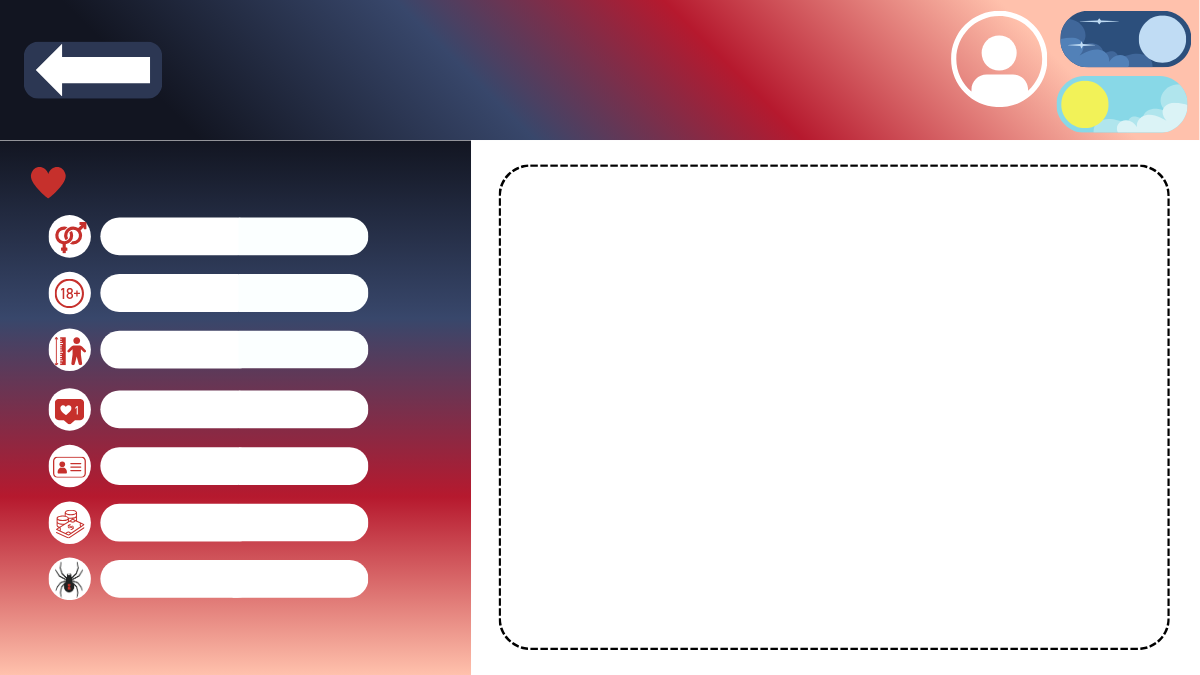
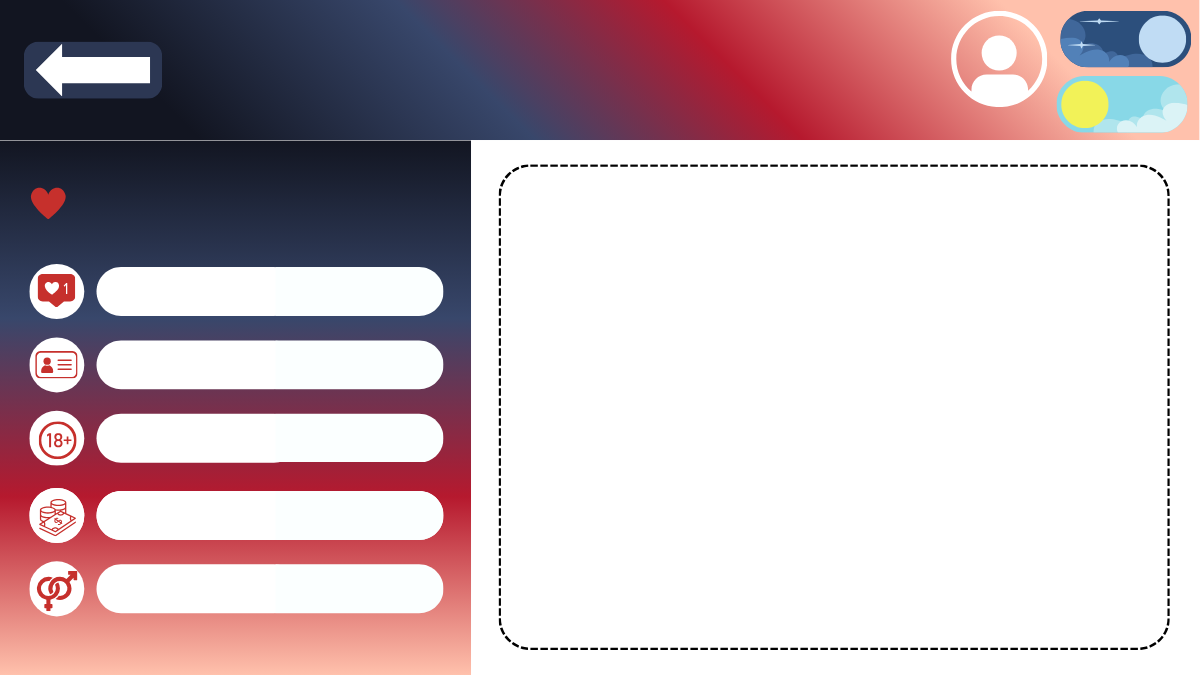
Ventana Principal corregida

Changed region(s): [[0.0, 0.2489, 0.37, 0.9333]]

diff --git a/ProyectoFinal/src/co/edu/unbosque/view/VentanaPrincipal.java b/ProyectoFinal/src/co/edu/unbosque/view/VentanaPrincipal.java
@@ -31,11 +31,9 @@ public class VentanaPrincipal extends JFrame {
 
 	private JLabel lblGenero;
 	private JLabel lblEdad;
-	private JLabel lblEstatura;
 	private JLabel lblLike;
 	private JLabel lblNombre;
 	private JLabel lblIngreso;
-	private JLabel lblDivorcio;
 
 	// Botones y cb
 	private JButton btnVolver;
@@ -48,11 +46,9 @@ public class VentanaPrincipal extends JFrame {
 
 	private JComboBox<String> cbGenero;
 	private JComboBox<String> cbEdad;
-	private JComboBox<String> cbEstatura;
 	private JComboBox<String> cbLike;
 	private JComboBox<String> cbNombre;
 	private JComboBox<String> cbIngreso;
-	private JComboBox<String> cbDivorcio;
 	
 	//tabla
 	private JTable tablaUsuarios;
@@ -117,14 +113,14 @@ public class VentanaPrincipal extends JFrame {
 		this.add(lblFiltro);
 
 		lblGenero = new JLabel(prop.getProperty("bostinder.ventanaprinicipal.lblGenero"));
-		lblGenero.setFont(new Font("Arial Rounded MT Bold", Font.BOLD, 15));
-		lblGenero.setBounds(110, 200, 1200, 70);
+		lblGenero.setFont(new Font("Arial Rounded MT Bold", Font.BOLD, 20));
+		lblGenero.setBounds(110, 555, 1200, 70);
 		lblGenero.setForeground(Color.BLACK);
 		this.add(lblGenero);
 
 		cbGenero = new JComboBox<>(prop.getProperty("bostinder.ventanaprinicipal.cbGenero").split(","));
-		cbGenero.setFont(new Font("Arial Rounded MT Bold", Font.BOLD, 15));
-		cbGenero.setBounds(181, 221, 177, 30);
+		cbGenero.setFont(new Font("Arial Rounded MT Bold", Font.BOLD, 20));
+		cbGenero.setBounds(230, 575, 177, 30);
 		cbGenero.setBackground(new Color(251, 255, 255));
 		cbGenero.setForeground(Color.BLACK);
 		cbGenero.setBorder(BorderFactory.createEmptyBorder());
@@ -132,45 +128,29 @@ public class VentanaPrincipal extends JFrame {
 		this.add(cbGenero);
 
 		lblEdad = new JLabel(prop.getProperty("bostinder.ventanaprinicipal.lblEdad"));
-		lblEdad.setFont(new Font("Arial Rounded MT Bold", Font.BOLD, 15));
-		lblEdad.setBounds(110, 257, 1200, 70);
+		lblEdad.setFont(new Font("Arial Rounded MT Bold", Font.BOLD, 20));
+		lblEdad.setBounds(110, 405, 1200, 70);
 		lblEdad.setForeground(Color.BLACK);
 		this.add(lblEdad);
 
-		cbEdad = new JComboBox<>(new String[] { "...", "18 - 25", "26 - 35", "36 - 45", "46 - 55", "56 - 65", "66+" });
-		cbEdad.setFont(new Font("Arial Rounded MT Bold", Font.BOLD, 15));
-		cbEdad.setBounds(225, 278, 133, 30);
+		cbEdad = new JComboBox<>(prop.getProperty("bostinder.ventanaprinicipal.cbEdad").split(","));
+		cbEdad.setFont(new Font("Arial Rounded MT Bold", Font.BOLD, 20));
+		cbEdad.setBounds(230, 425, 177, 30);
 		cbEdad.setBackground(new Color(251, 255, 255));
 		cbEdad.setForeground(Color.BLACK);
 		cbEdad.setBorder(BorderFactory.createEmptyBorder());
 		cbEdad.setUI(new javax.swing.plaf.basic.BasicComboBoxUI());
 		this.add(cbEdad);
 
-		lblEstatura = new JLabel(prop.getProperty("bostinder.ventanaprinicipal.lblEstatura"));
-		lblEstatura.setFont(new Font("Arial Rounded MT Bold", Font.BOLD, 15));
-		lblEstatura.setBounds(110, 314, 1200, 70);
-		lblEstatura.setForeground(Color.BLACK);
-		this.add(lblEstatura);
-
-		cbEstatura = new JComboBox<>(new String[] { "...", "- 150cm", "150cm - 159cm", "160cm - 169cm", "170cm - 179cm",
-				"180cm - 189cm", "190cm - 199cm", "+ 200cm" });
-		cbEstatura.setFont(new Font("Arial Rounded MT Bold", Font.BOLD, 15));
-		cbEstatura.setBounds(247, 335, 111, 30);
-		cbEstatura.setBackground(new Color(251, 255, 255));
-		cbEstatura.setForeground(Color.BLACK);
-		cbEstatura.setBorder(BorderFactory.createEmptyBorder());
-		cbEstatura.setUI(new javax.swing.plaf.basic.BasicComboBoxUI());
-		this.add(cbEstatura);
-
 		lblLike = new JLabel(prop.getProperty("bostinder.ventanaprinicipal.lblLikes"));
-		lblLike.setFont(new Font("Arial Rounded MT Bold", Font.BOLD, 15));
-		lblLike.setBounds(110, 374, 1200, 70);
+		lblLike.setFont(new Font("Arial Rounded MT Bold", Font.BOLD, 20));
+		lblLike.setBounds(110, 257, 1200, 70);
 		lblLike.setForeground(Color.BLACK);
 		this.add(lblLike);
 
-		cbLike = new JComboBox<>(new String[] { "...", "0 - 10", "11 - 50", "51 - 100", "+ 100" });
-		cbLike.setFont(new Font("Arial Rounded MT Bold", Font.BOLD, 15));
-		cbLike.setBounds(180, 394, 178, 30);
+		cbLike = new JComboBox<>(prop.getProperty("bostinder.ventanaprinicipal.cbLikes").split(","));
+		cbLike.setFont(new Font("Arial Rounded MT Bold", Font.BOLD, 20));
+		cbLike.setBounds(230, 278, 178, 30);
 		cbLike.setBackground(new Color(251, 255, 255));
 		cbLike.setForeground(Color.BLACK);
 		cbLike.setBorder(BorderFactory.createEmptyBorder());
@@ -178,14 +158,14 @@ public class VentanaPrincipal extends JFrame {
 		this.add(cbLike);
 
 		lblNombre = new JLabel(prop.getProperty("bostinder.ventanaprinicipal.lblNombre"));
-		lblNombre.setFont(new Font("Arial Rounded MT Bold", Font.BOLD, 15));
-		lblNombre.setBounds(110, 432, 1200, 70);
+		lblNombre.setFont(new Font("Arial Rounded MT Bold", Font.BOLD, 20));
+		lblNombre.setBounds(110, 330, 1200, 70);
 		lblNombre.setForeground(Color.BLACK);
 		this.add(lblNombre);
 
-		cbNombre = new JComboBox<>(new String[] { "...", "A-Z", "Z-A" });
-		cbNombre.setFont(new Font("Arial Rounded MT Bold", Font.BOLD, 15));
-		cbNombre.setBounds(181, 451, 178, 30);
+		cbNombre = new JComboBox<>(prop.getProperty("bostinder.ventanaprinicipal.cbNombre").split(","));
+		cbNombre.setFont(new Font("Arial Rounded MT Bold", Font.BOLD, 20));
+		cbNombre.setBounds(230, 350, 178, 30);
 		cbNombre.setBackground(new Color(251, 255, 255));
 		cbNombre.setForeground(Color.BLACK);
 		cbNombre.setBorder(BorderFactory.createEmptyBorder());
@@ -193,34 +173,20 @@ public class VentanaPrincipal extends JFrame {
 		this.add(cbNombre);
 
 		lblIngreso = new JLabel(prop.getProperty("bostinder.ventanaprinicipal.lblIngresos"));
-		lblIngreso.setFont(new Font("Arial Rounded MT Bold", Font.BOLD, 15));
-		lblIngreso.setBounds(110, 491, 1200, 70);
+		lblIngreso.setFont(new Font("Arial Rounded MT Bold", Font.BOLD, 20));
+		lblIngreso.setBounds(110, 480, 1200, 70);
 		lblIngreso.setForeground(Color.BLACK);
 		this.add(lblIngreso);
 
 		cbIngreso = new JComboBox<>(prop.getProperty("bostinder.ventanaprinicipal.cbIngresos").split(","));
-		cbIngreso.setFont(new Font("Arial Rounded MT Bold", Font.BOLD, 15));
-		cbIngreso.setBounds(181, 508, 177, 30);
+		cbIngreso.setFont(new Font("Arial Rounded MT Bold", Font.BOLD, 20));
+		cbIngreso.setBounds(230, 500, 177, 30);
 		cbIngreso.setBackground(new Color(251, 255, 255));
 		cbIngreso.setForeground(Color.BLACK);
 		cbIngreso.setBorder(BorderFactory.createEmptyBorder());
 		cbIngreso.setUI(new javax.swing.plaf.basic.BasicComboBoxUI());
 		this.add(cbIngreso);
 
-		lblDivorcio = new JLabel(prop.getProperty("bostinder.ventanaprinicipal.lblDivorcio"));
-		lblDivorcio.setFont(new Font("Arial Rounded MT Bold", Font.BOLD, 15));
-		lblDivorcio.setBounds(110, 547, 1200, 70);
-		lblDivorcio.setForeground(Color.BLACK);
-		this.add(lblDivorcio);
-
-		cbDivorcio = new JComboBox<>(prop.getProperty("bostinder.ventanaprinicipal.cbDivorcio").split(","));
-		cbDivorcio.setFont(new Font("Arial Rounded MT Bold", Font.BOLD, 15));
-		cbDivorcio.setBounds(208, 566, 150, 30);
-		cbDivorcio.setBackground(new Color(251, 255, 255));
-		cbDivorcio.setForeground(Color.BLACK);
-		cbDivorcio.setBorder(BorderFactory.createEmptyBorder());
-		cbDivorcio.setUI(new javax.swing.plaf.basic.BasicComboBoxUI());
-		this.add(cbDivorcio);
 		
 		btnVolver = new JButton("");
 		btnVolver.setFont(new Font("Arial Rounded MT Bold", Font.BOLD, 20));
@@ -234,7 +200,7 @@ public class VentanaPrincipal extends JFrame {
 		
 		//Boton Like
 		btnLike = new JButton(prop.getProperty("bostinder.ventanaprinicipal.btnLike"));
-		btnLike.setFont(new Font("Arial Rounded MT Bold", Font.BOLD, 18));
+		btnLike.setFont(new Font("Arial Rounded MT Bold", Font.BOLD, 20));
 		btnLike.setBounds(640, 640, 150, 25); 
 		btnLike.setBackground(new Color(0, 153, 51));
 		btnLike.setForeground(Color.WHITE);
@@ -380,13 +346,6 @@ public class VentanaPrincipal extends JFrame {
 		this.lblEdad = lblEdad;
 	}
 
-	public JLabel getLblEstatura() {
-		return lblEstatura;
-	}
-
-	public void setLblEstatura(JLabel lblEstatura) {
-		this.lblEstatura = lblEstatura;
-	}
 
 	public JLabel getLblLikes() {
 		return lblLike;
@@ -410,14 +369,6 @@ public class VentanaPrincipal extends JFrame {
 
 	public void setLblIngresos(JLabel lblIngresos) {
 		this.lblIngreso = lblIngresos;
-	}
-
-	public JLabel getLblDivorcio() {
-		return lblDivorcio;
-	}
-
-	public void setLblDivorcio(JLabel lblDivorcio) {
-		this.lblDivorcio = lblDivorcio;
 	}
 
 	public JButton getBtnVolver() {
@@ -444,14 +395,6 @@ public class VentanaPrincipal extends JFrame {
 		this.cbEdad = cbEdad;
 	}
 
-	public JComboBox<String> getCbEstatura() {
-		return cbEstatura;
-	}
-
-	public void setCbEstatura(JComboBox<String> cbEstatura) {
-		this.cbEstatura = cbEstatura;
-	}
-
 	public JComboBox<String> getCbLikes() {
 		return cbLike;
 	}
@@ -474,14 +417,6 @@ public class VentanaPrincipal extends JFrame {
 
 	public void setCbIngresos(JComboBox<String> cbIngresos) {
 		this.cbIngreso = cbIngresos;
-	}
-
-	public JComboBox<String> getCbDivorcio() {
-		return cbDivorcio;
-	}
-
-	public void setCbDivorcio(JComboBox<String> cbDivorcio) {
-		this.cbDivorcio = cbDivorcio;
 	}
 
 	public Properties getProp() {
